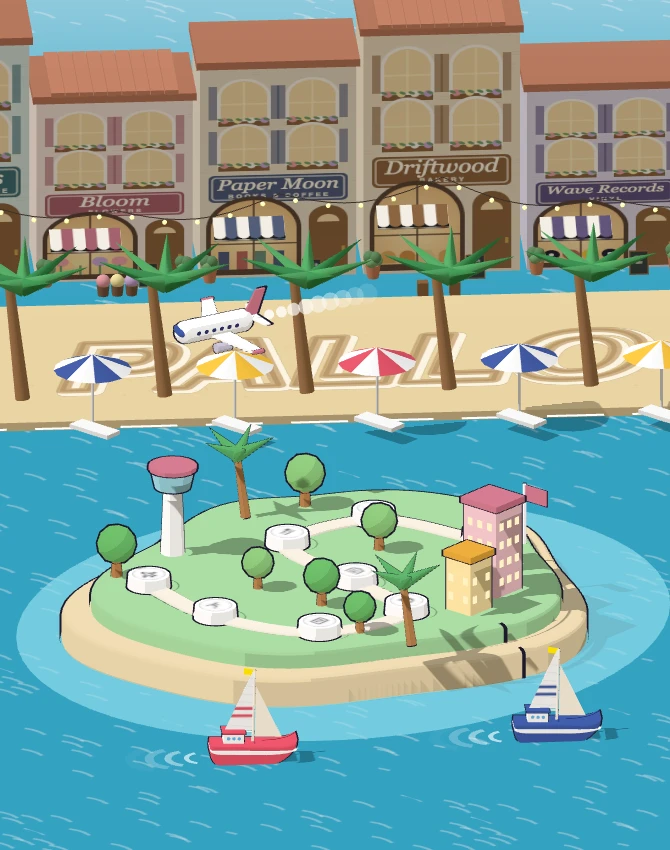
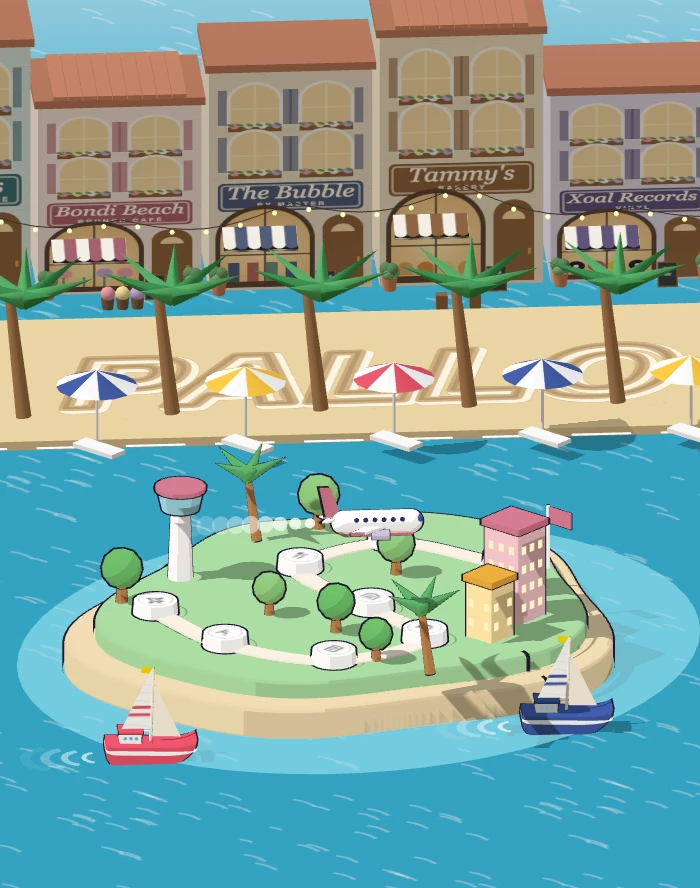
여행 상황 맵 해변 상점가 이름 바꾸기: Bloom → Bondi Beach (Brunch Café) · Paper Moon → The Bubble (by master) · Driftwood → Tammy's · Wave Records → Xoal Records
- scenes.js SHOPS 의 이름 · 작은 글씨
- 3D 를 못 그리는 폰용 2D 지도 사진(travel.webp)도 다시 찍었어요 (?map=capture · 정류장 자리는 그대로)

diff --git a/mobile/src/components/library/world/scenes.js b/mobile/src/components/library/world/scenes.js
@@ -671,8 +671,8 @@ function travelBeach(S) { const sc = S.sc;
   [-10, -6, -2, 2, 6, 10].forEach((t, i) => { const [x, z] = along(-10.6, -10.6, t); sc.add(umb(x, z, ['#E9536A', '#3F5BA9', '#FFC93C'][i % 3])); });
   // 감성 해변 상점가: 파스텔 · 원목 · 아치 창 · 따뜻한 실내 불빛 · 꽃상자 · 칠판 입간판 · 전구 줄
   const SHOPS = [['Salt & Sun', 'coffee · brunch', '#EFE3CF', '#6B8F7A', 'cafe'], ['Little Gelato', 'handmade', '#F3D3CF', '#B8655A', 'gelato'], ['Sea Glass', 'vintage boutique', '#D6E4E0', '#3F6E74', 'boutique'],
-    ['Bloom', 'flowers', '#F1E1D8', '#A85F6E', 'flower'], ['Paper Moon', 'books & coffee', '#E7DCC8', '#4E5A7A', 'books'], ['Driftwood', 'bakery', '#EADCC4', '#8C6239', 'bakery'],
-    ['Wave Records', 'vinyl', '#DCD6E6', '#5E4E7A', 'records'], ['Linen House', 'slow living', '#EEE8DE', '#7A7466', 'linen'], ['Golden Hour', 'wine bar', '#EAD7B8', '#9C6B2E', 'bar']];
+    ['Bondi Beach', 'Brunch Café', '#F1E1D8', '#A85F6E', 'flower'], ['The Bubble', 'by master', '#E7DCC8', '#4E5A7A', 'books'], ["Tammy's", 'bakery', '#EADCC4', '#8C6239', 'bakery'],
+    ['Xoal Records', 'vinyl', '#DCD6E6', '#5E4E7A', 'records'], ['Linen House', 'slow living', '#EEE8DE', '#7A7466', 'linen'], ['Golden Hour', 'wine bar', '#EAD7B8', '#9C6B2E', 'bar']];
   const SERIF = '"DM Serif Display", Georgia, serif', shopTexs = [];
   const drawShop = (g, W, H, [name, sub, wall, acc, kind]) => { g.clearRect(0, 0, W, H); g.fillStyle = wall; g.fillRect(0, 0, W, H);
     g.fillStyle = 'rgba(120,90,60,.06)'; for (let i = 0; i < 120; i++) g.fillRect((i * 53) % W, (i * 97) % H, 18, 2);
